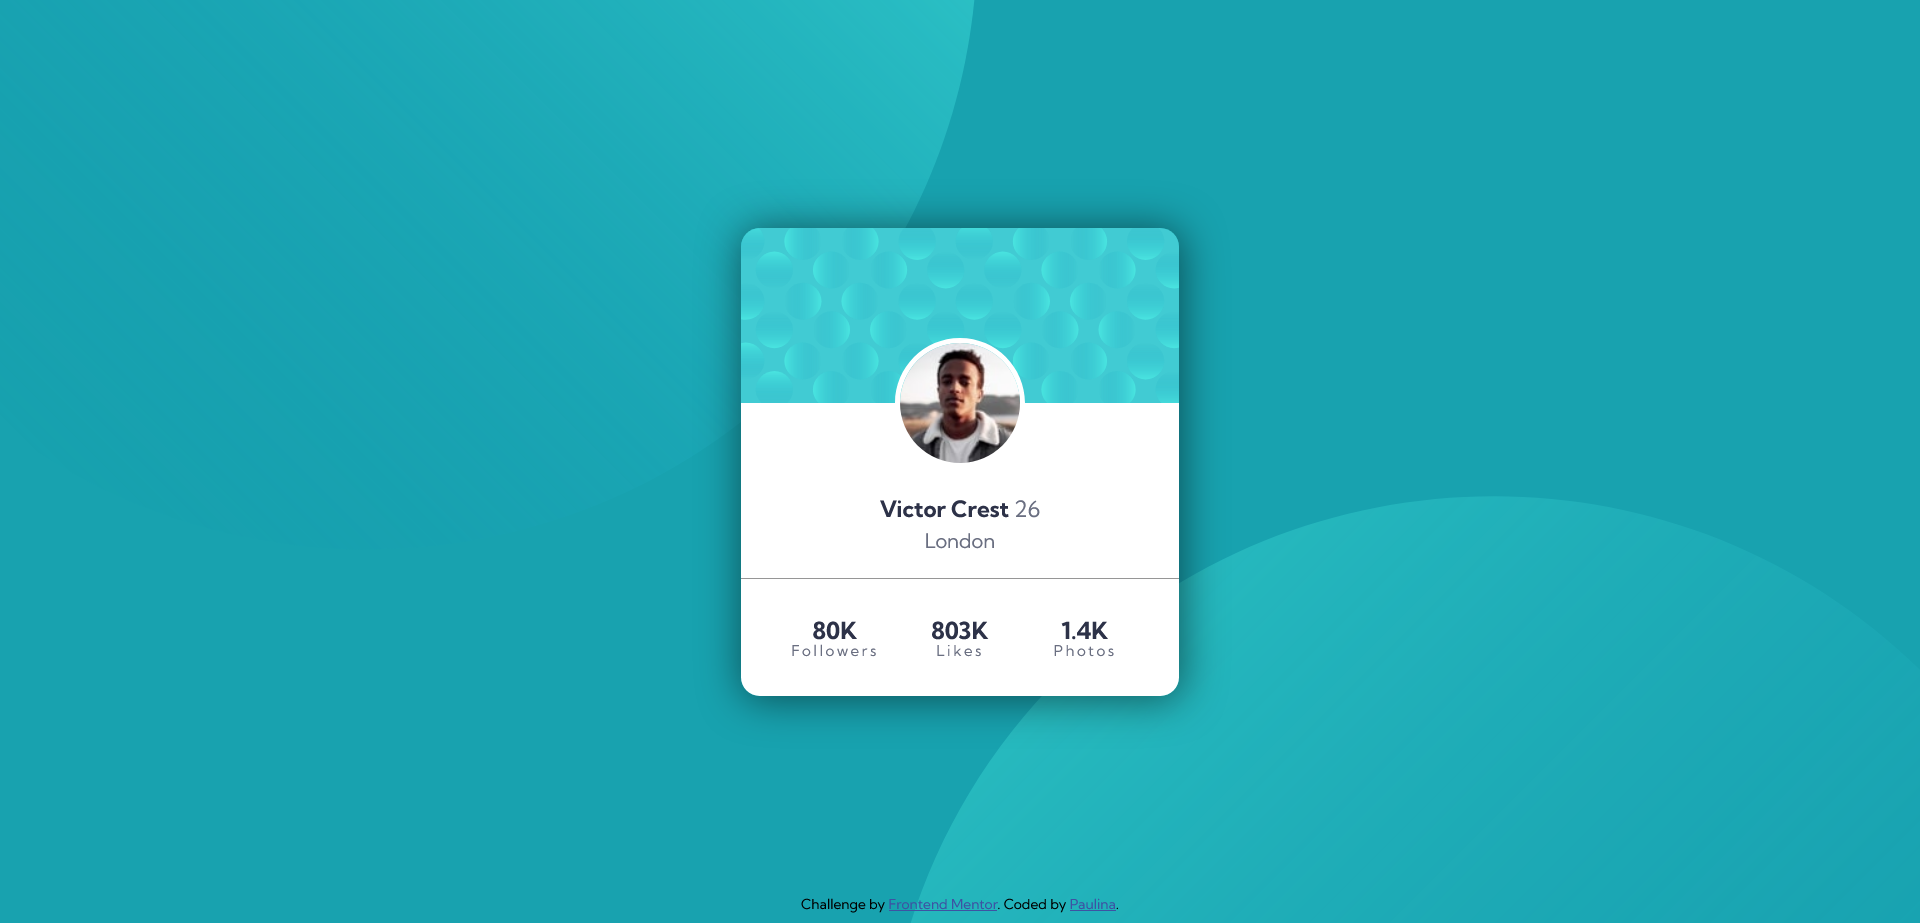
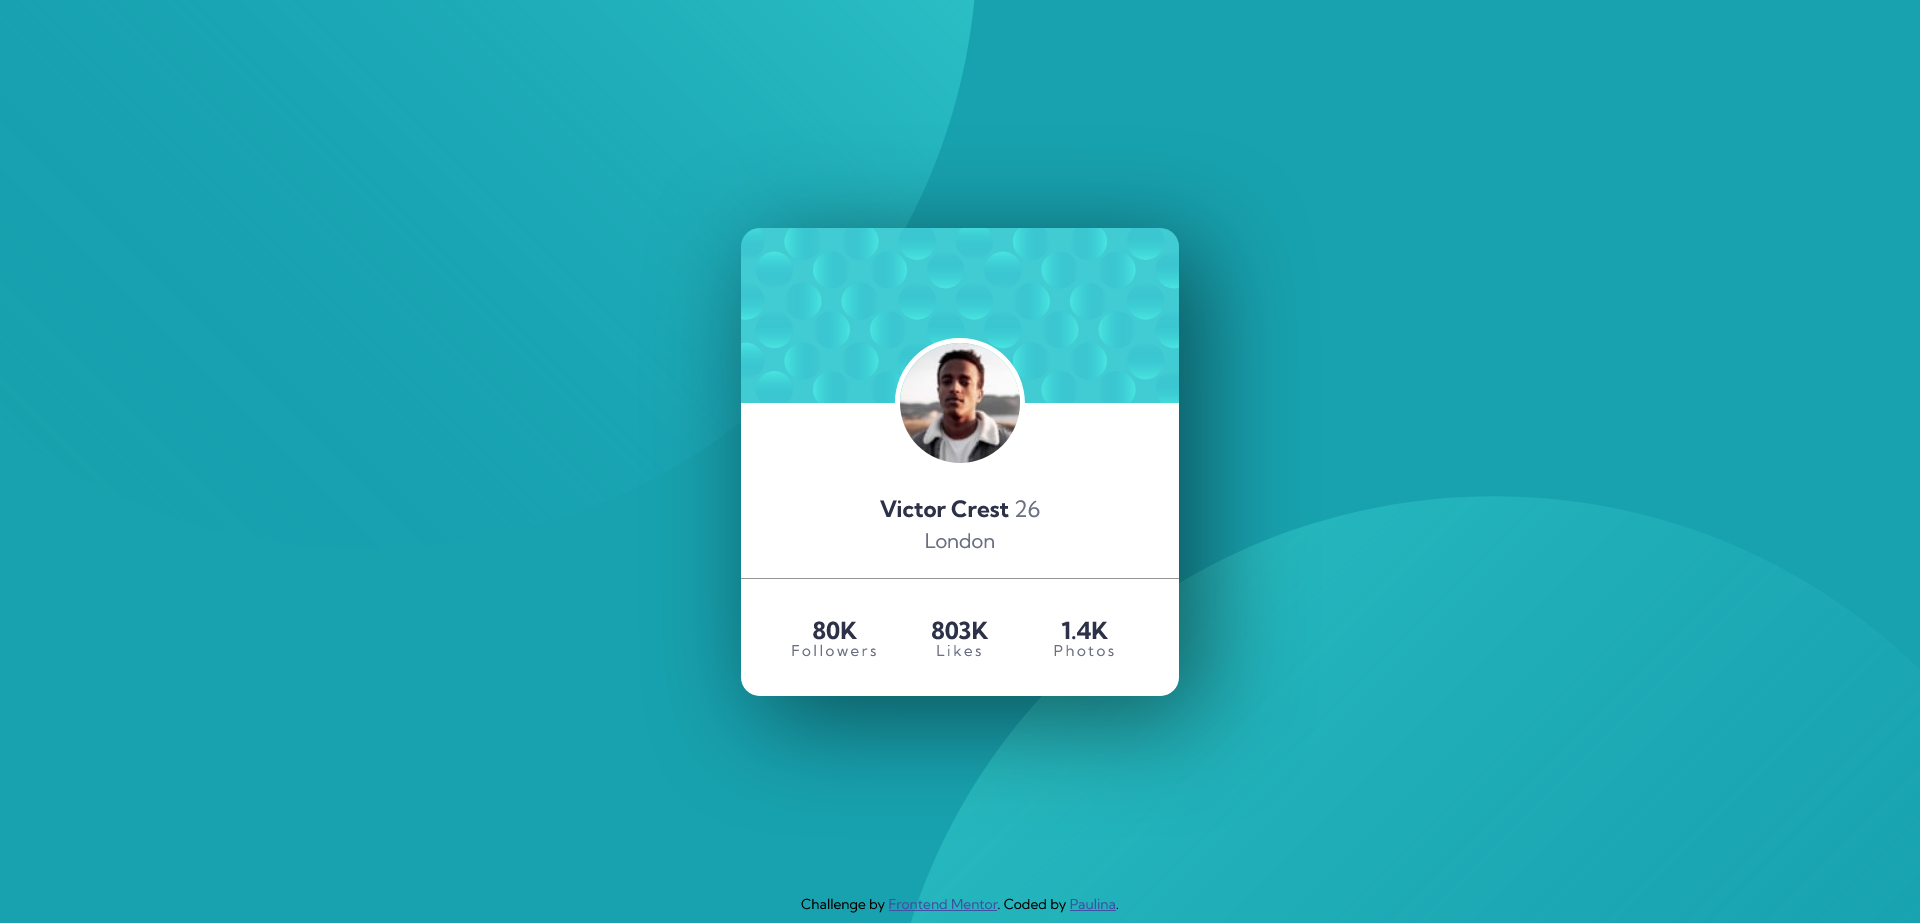
dodanie scrennów z cieniem

Changed region(s): [[0.4062, 0.7584, 0.625, 0.8191], [0.625, 0.3337, 0.6562, 0.7281]]

diff --git a/style.css b/style.css
@@ -61,7 +61,7 @@ div.profil {
   display: flex;
   flex-direction: column;
   overflow: hidden;
-  box-shadow: 0.1em 0.1em 2em 0.1em rgb(0, 0, 0, .5);
+  box-shadow: 1em 1em 5em .1em rgb(0, 0, 0, .5);
 }
 
 div.profil div.s1 {
